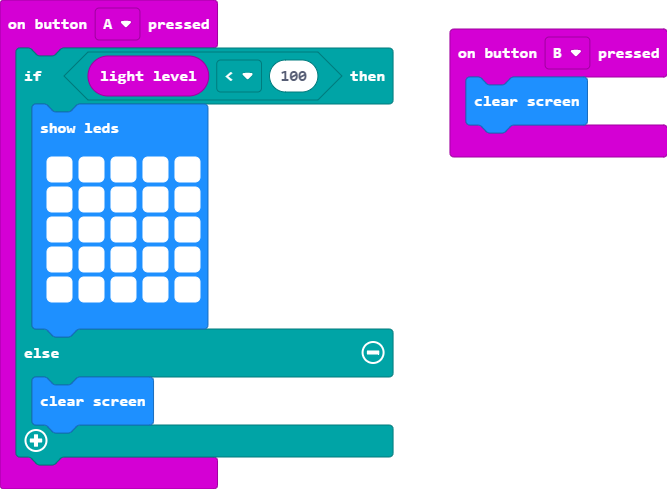
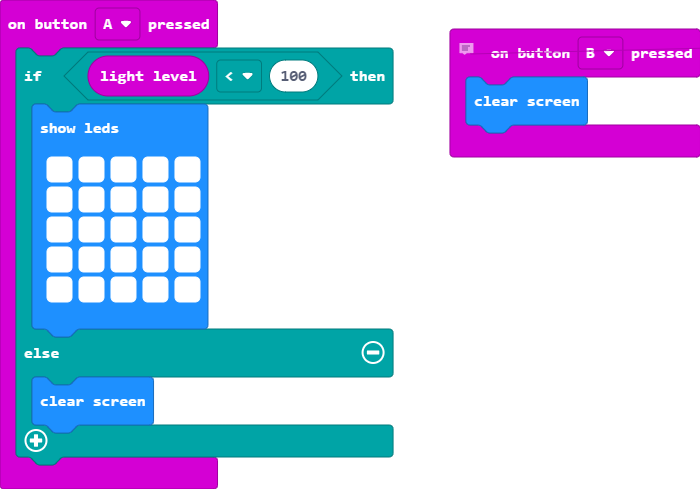
Update main.blocks, main.ts

diff --git a/main.ts b/main.ts
@@ -11,6 +11,7 @@ input.onButtonPressed(Button.A, function () {
         basic.clearScreen()
     }
 })
+// This code senses the light level and also if the light level is low, bright lights pop up
 input.onButtonPressed(Button.B, function () {
     basic.clearScreen()
 })
